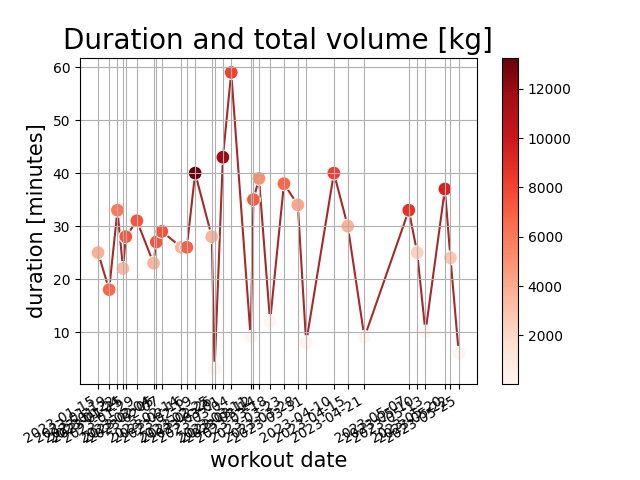
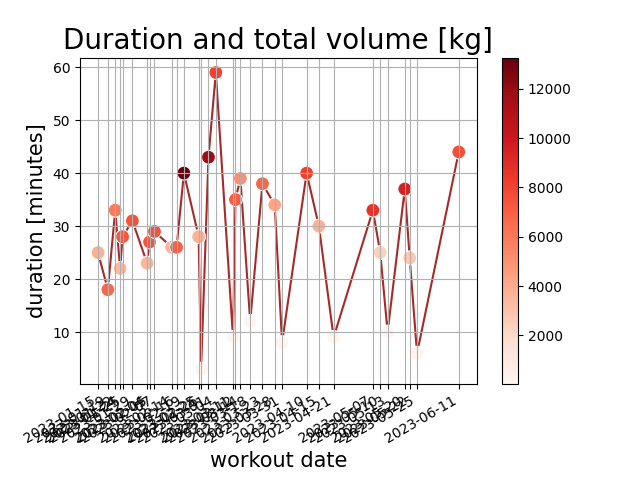
chore: add workout to db. Add bodyweight metric

Changed region(s): [[0.0625, 0.125, 0.75, 0.9375]]

diff --git a/src/combined_metrics/combined_metrics.py b/src/combined_metrics/combined_metrics.py
@@ -34,6 +34,7 @@ def get_total_volume(table) -> list[tuple[str, int]]:
     :rtype: list[tuple[str, int]]
     """
 
+    bodyweight = "80"
     date_and_volume = []
     for item in table:
         total_volume = 0
@@ -43,7 +44,10 @@ def get_total_volume(table) -> list[tuple[str, int]]:
             volume_partial = []
             for s in item["exercises"][exercise]:
                 if s["weight"][:-3] != "0":
-                    volume_partial.append(s["reps"] * float(s["weight"][:-3]))
+
+                    weight = eval(s["weight"][:-3].replace("BODYWEIGHT", bodyweight))
+
+                    volume_partial.append(s["reps"] * weight)
                 else:
                     volume_partial.append(s["reps"] * 1)
             total_volume += number_of_sets * max(volume_partial)
